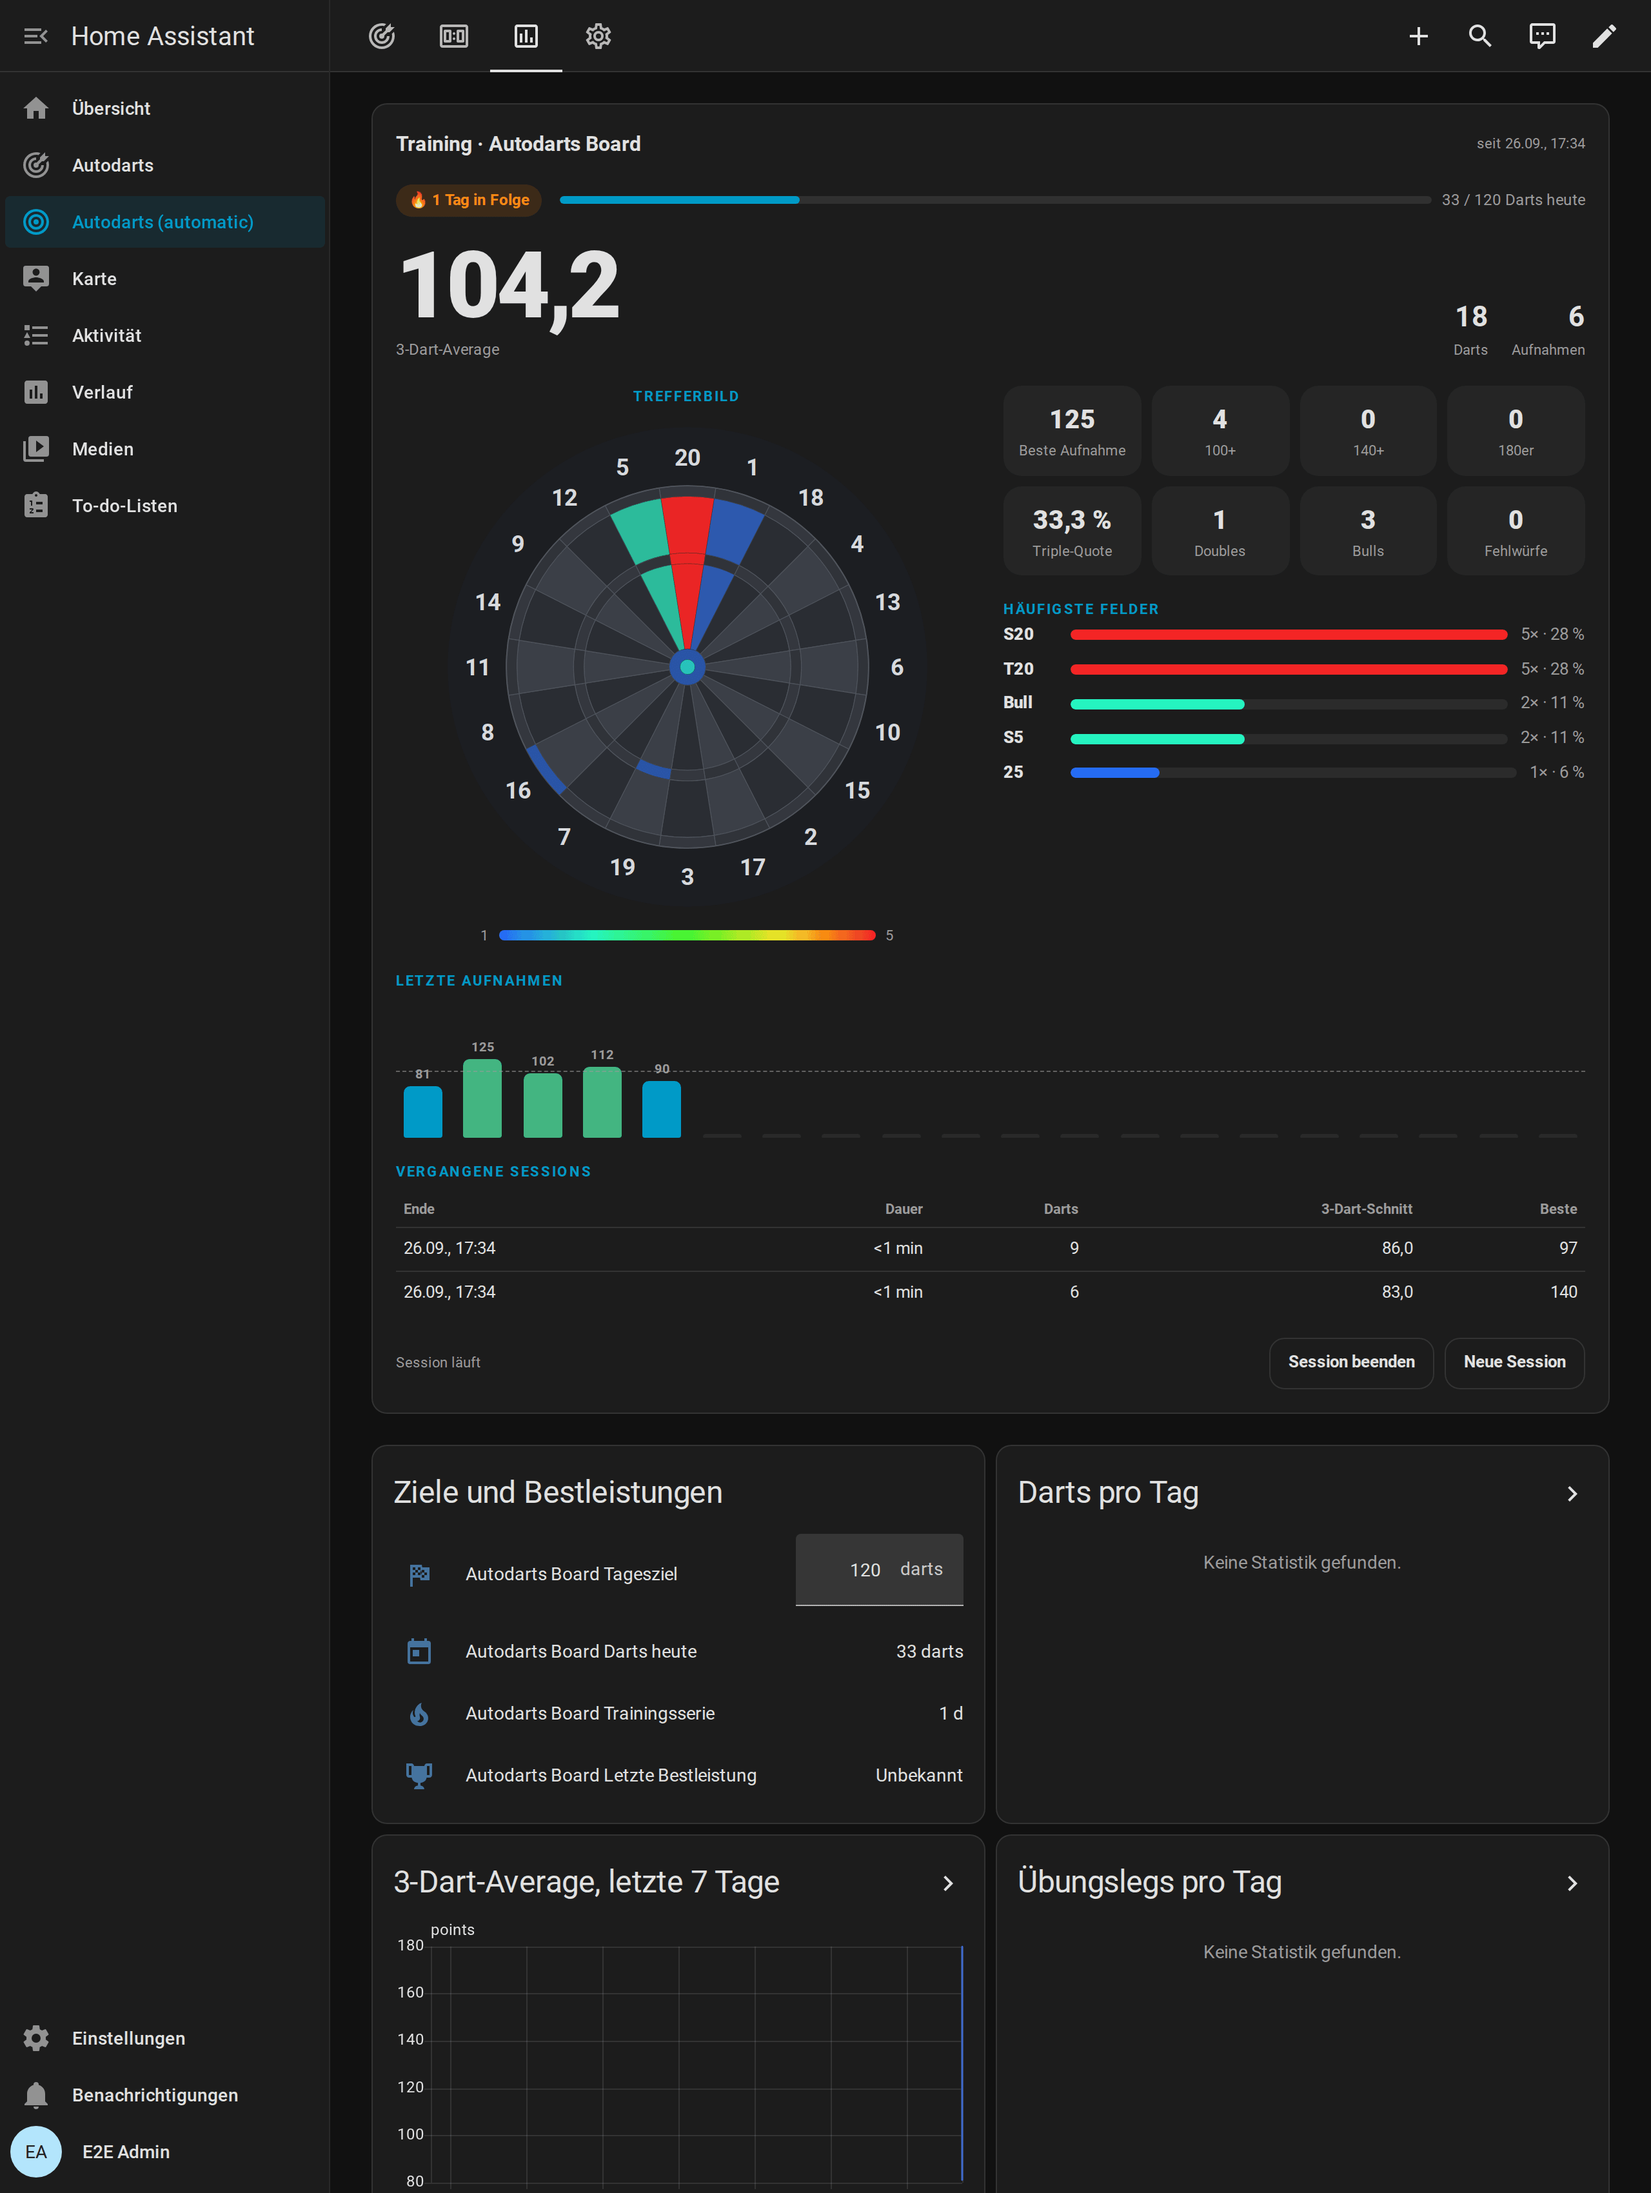
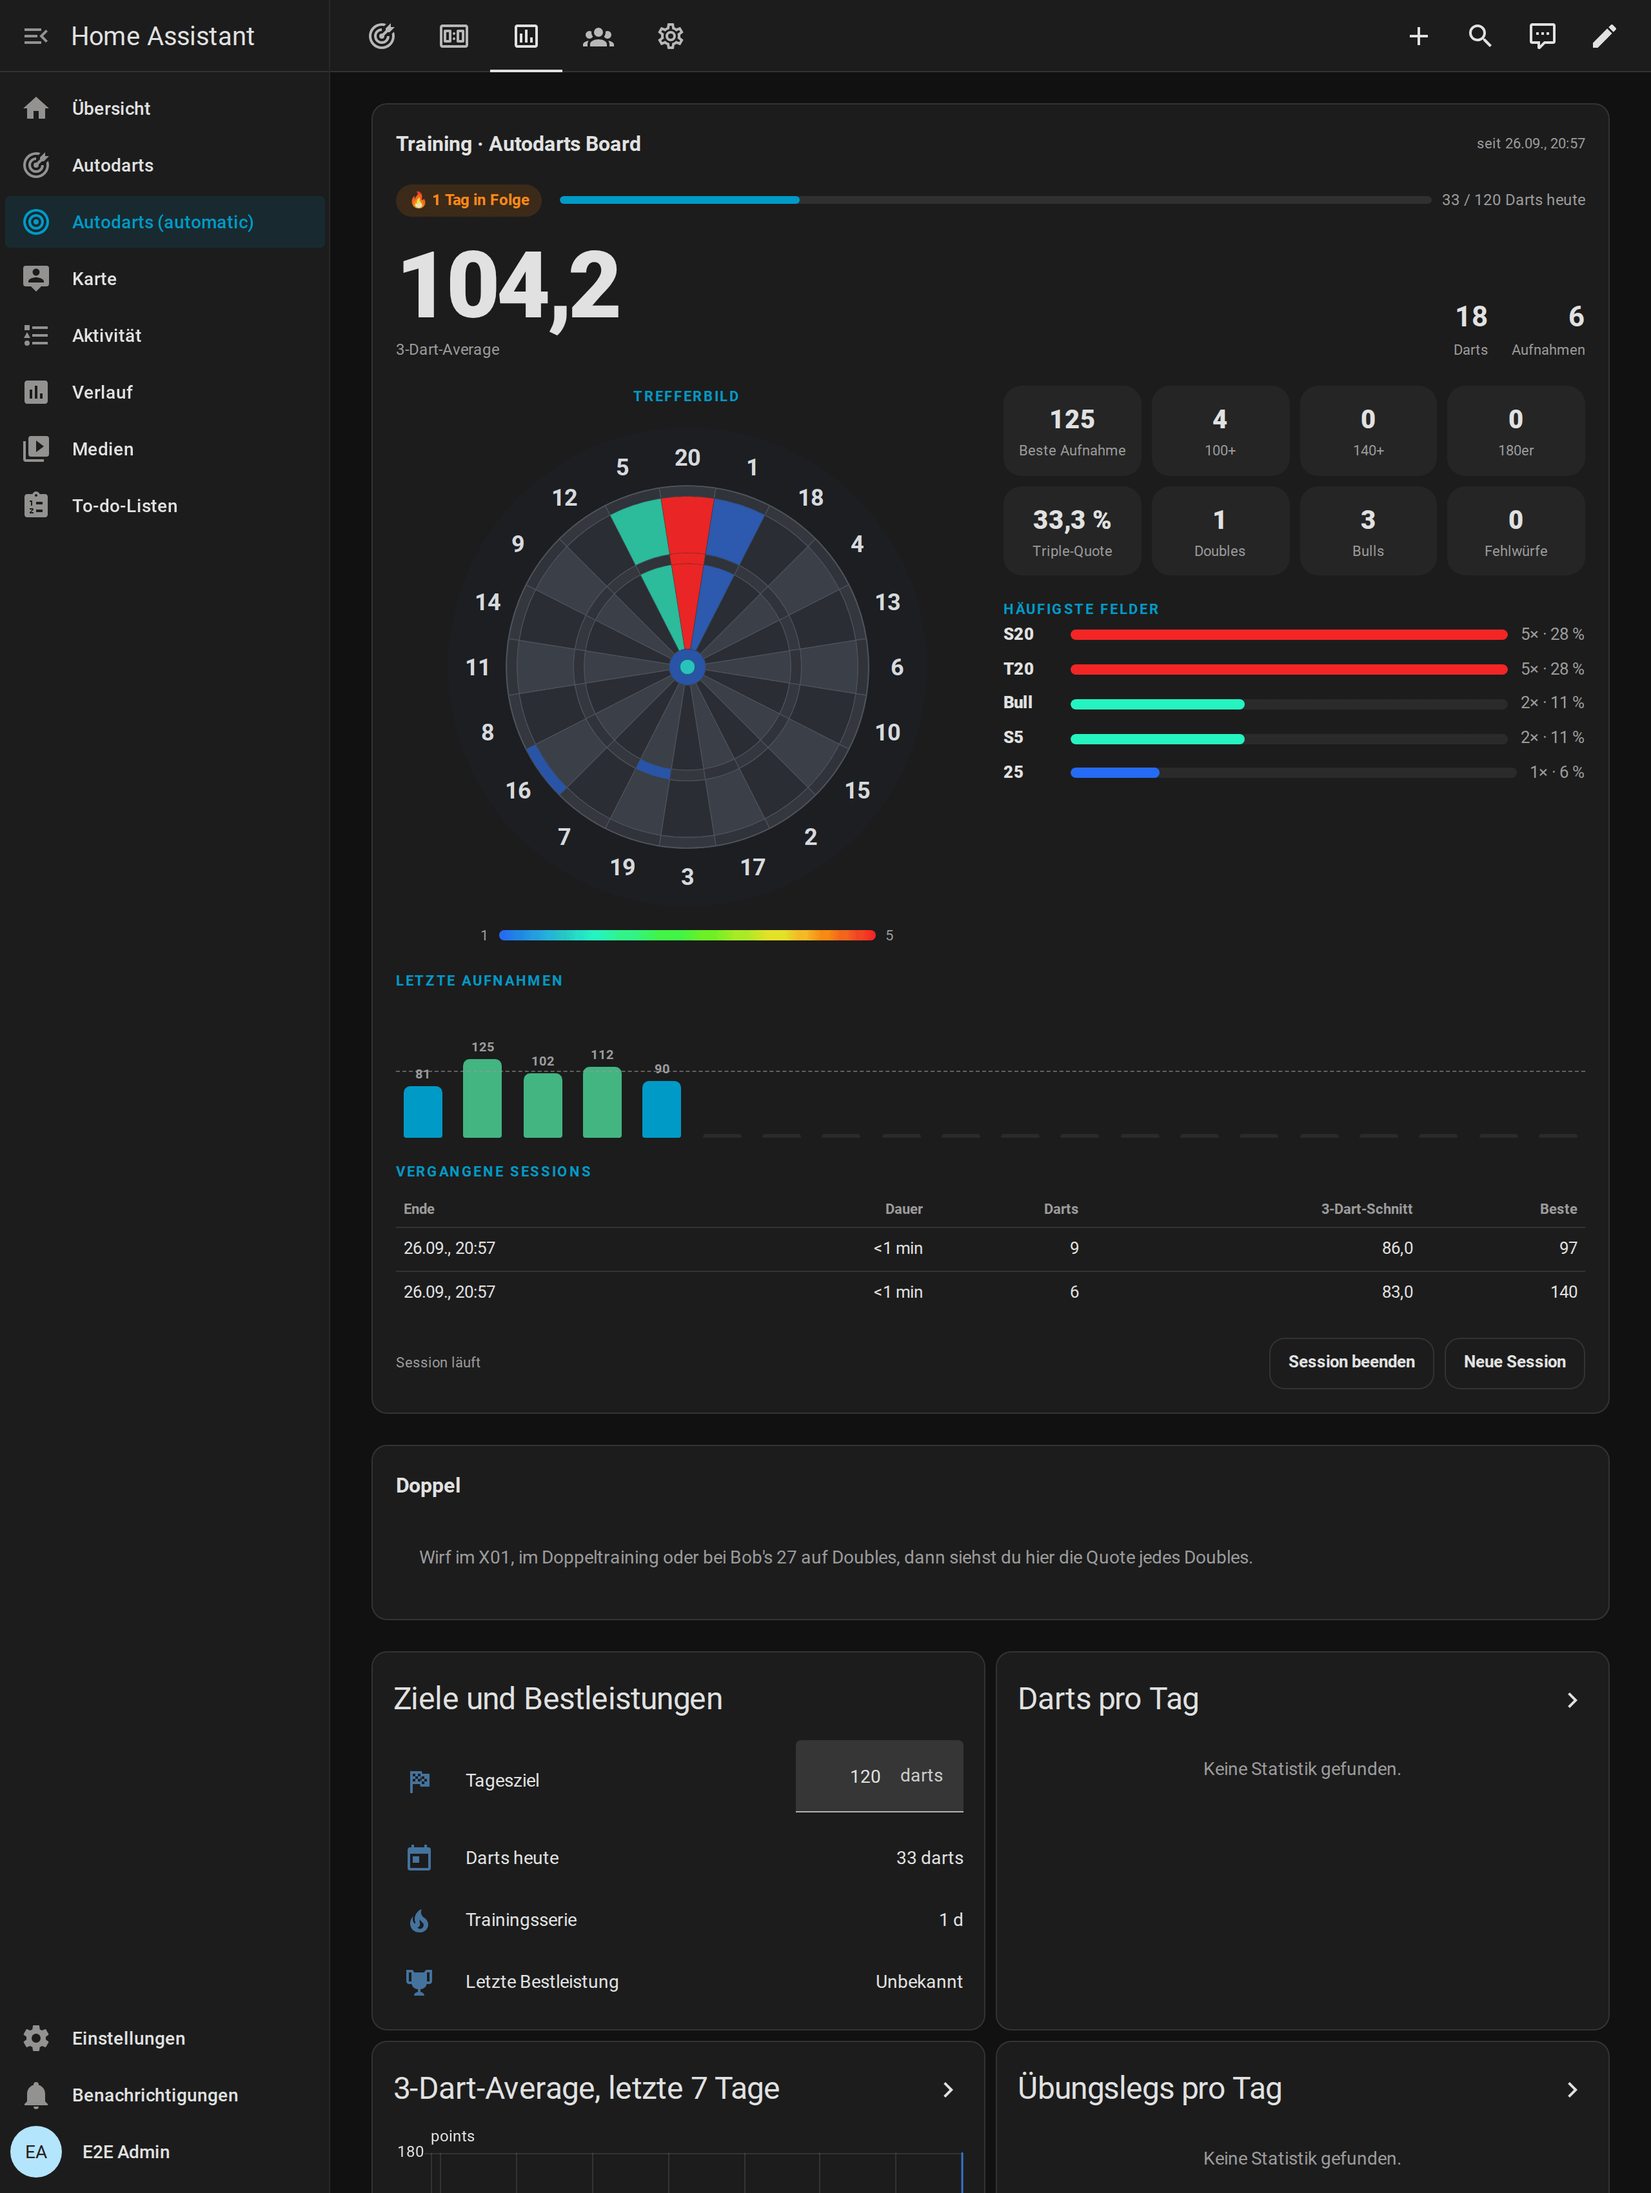
fix(dashboard): name rows without the board and their section
The generated dashboard showed every row with the device name in front,
such as "Autodarts Board Übungsspiel Spieler". Rows, graphs and the
update tile now leave out the board, which the view already names, and
the practice rows also leave out the section heading, so they read
"Spieler", "Legs pro Satz" or "Double-Out". Names the user gave
stay as they are. The personal checkout routes switch from 1.5 joins
the practice section.

diff --git a/custom_components/autodarts/frontend/autodarts-card.js b/custom_components/autodarts/frontend/autodarts-card.js
@@ -170,6 +170,7 @@ const TEXT = {
     score_legs: "Legs",
     score_sets: "Sets",
     practice_names: "Player names",
+    practice_game_row: "Game",
     practice_legs_per_day: "Practice legs per day",
     practice_trend: "First 9 & checkout rate",
     streak_day: "day in a row",
@@ -381,6 +382,7 @@ const TEXT = {
     score_legs: "Legs",
     score_sets: "Sätze",
     practice_names: "Spielernamen",
+    practice_game_row: "Spiel",
     practice_legs_per_day: "Übungslegs pro Tag",
     practice_trend: "First 9 & Checkout-Quote",
     streak_day: "Tag in Folge",
@@ -1774,6 +1776,18 @@ const SETTING_KEYS = [
   "select.standby_minutes",
 ];
 
+// An entity's name without its board and without the section it sits in, so
+// "Autodarts Board Practice players" reads "Players" under "Practice".
+function rowName(hass, entityId, prefixes) {
+  let name = hass?.states?.[entityId]?.attributes?.friendly_name;
+  if (typeof name !== "string") return null;
+  for (const prefix of prefixes) {
+    if (prefix && name.toLowerCase().startsWith(`${prefix.toLowerCase()} `)) name = name.slice(prefix.length + 1);
+  }
+  name = name.trim();
+  return name ? name[0].toUpperCase() + name.slice(1) : null;
+}
+
 // A complete dashboard for every board: live play, training and maintenance.
 function dashboardStrategy(hass, config = {}) {
   const t = (key) => translate(hass, key);
@@ -1795,21 +1809,31 @@ function dashboardStrategy(hass, config = {}) {
     const slug = devices.length > 1 ? `-${number + 1}` : "";
     const board = { device_id: deviceId };
     const full = { grid_options: { columns: "full" } };
+    // Rows and graphs name their entities briefly, the board is the view's.
+    const row = (entity, section) => {
+      const text = rowName(hass, entity, [name, section]);
+      if (!text) return entity;
+      // The game select is the practice section itself.
+      return { entity, name: section && text.toLowerCase() === section.toLowerCase() ? t("practice_game_row") : text };
+    };
+    const rows = (keys, section) => keys.map(id).filter(Boolean).map((entity) => row(entity, section));
 
-    const practice = [
-      "select.practice_game",
-      "number.practice_players",
-      "number.practice_legs",
-      "number.practice_sets",
-      "switch.practice_double_out",
-      "switch.practice_double_in",
-      "switch.practice_bull_off",
-      "button.practice_new_leg",
-      "button.practice_new_match",
-    ]
-      .map(id)
-      .filter(Boolean);
-    const names = index["text.practice_player"] ?? [];
+    const practice = rows(
+      [
+        "select.practice_game",
+        "number.practice_players",
+        "number.practice_legs",
+        "number.practice_sets",
+        "switch.practice_double_out",
+        "switch.practice_double_in",
+        "switch.practice_bull_off",
+        "switch.practice_personal_routes",
+        "button.practice_new_leg",
+        "button.practice_new_match",
+      ],
+      t("practice")
+    );
+    const names = (index["text.practice_player"] ?? []).map((entity) => row(entity, t("practice")));
     views.push({
       title: `${t("view_live")}${suffix}`,
       path: `live${slug}`,
@@ -1848,7 +1872,7 @@ function dashboardStrategy(hass, config = {}) {
       trends.push({
         type: "statistics-graph",
         title: t("darts_per_day"),
-        entities: [id("sensor.training_darts")],
+        entities: rows(["sensor.training_darts"]),
         stat_types: ["change"],
         period: "day",
         chart_type: "bar",
@@ -1859,7 +1883,7 @@ function dashboardStrategy(hass, config = {}) {
       trends.push({
         type: "history-graph",
         title: t("average_trend"),
-        entities: [id("sensor.training_average")],
+        entities: rows(["sensor.training_average"]),
         hours_to_show: 168,
       });
     }
@@ -1867,20 +1891,21 @@ function dashboardStrategy(hass, config = {}) {
       trends.push({
         type: "statistics-graph",
         title: t("practice_legs_per_day"),
-        entities: [id("sensor.practice_legs_played")],
+        entities: rows(["sensor.practice_legs_played"]),
         stat_types: ["change"],
         period: "day",
         chart_type: "bar",
         days_to_show: 30,
       });
     }
-    const goals = ["number.training_daily_goal", "sensor.darts_today", "sensor.training_streak", "sensor.personal_best"]
-      .map(id)
-      .filter(Boolean);
+    const goals = rows([
+      "number.training_daily_goal",
+      "sensor.darts_today",
+      "sensor.training_streak",
+      "sensor.personal_best",
+    ]);
     if (goals.length) trends.unshift({ type: "entities", title: t("goals_and_bests"), entities: goals });
-    const practiceTrend = ["sensor.practice_first_9_average", "sensor.practice_checkout_rate"]
-      .map(id)
-      .filter(Boolean);
+    const practiceTrend = rows(["sensor.practice_first_9_average", "sensor.practice_checkout_rate"]);
     if (practiceTrend.length) {
       trends.push({
         type: "history-graph",
@@ -1915,10 +1940,11 @@ function dashboardStrategy(hass, config = {}) {
       });
     }
 
-    const settings = SETTING_KEYS.map(id).filter(Boolean);
+    const settings = rows(SETTING_KEYS);
     const maintenance = [{ type: "heading", heading: t("board_settings") }];
     if (settings.length) maintenance.push({ type: "entities", entities: settings });
-    if (id("update.board_software")) maintenance.push({ type: "tile", entity: id("update.board_software") });
+    const [software] = rows(["update.board_software"]);
+    if (software) maintenance.push({ type: "tile", ...(typeof software === "string" ? { entity: software } : software) });
     views.push({
       title: `${t("view_board")}${suffix}`,
       path: `board${slug}`,
